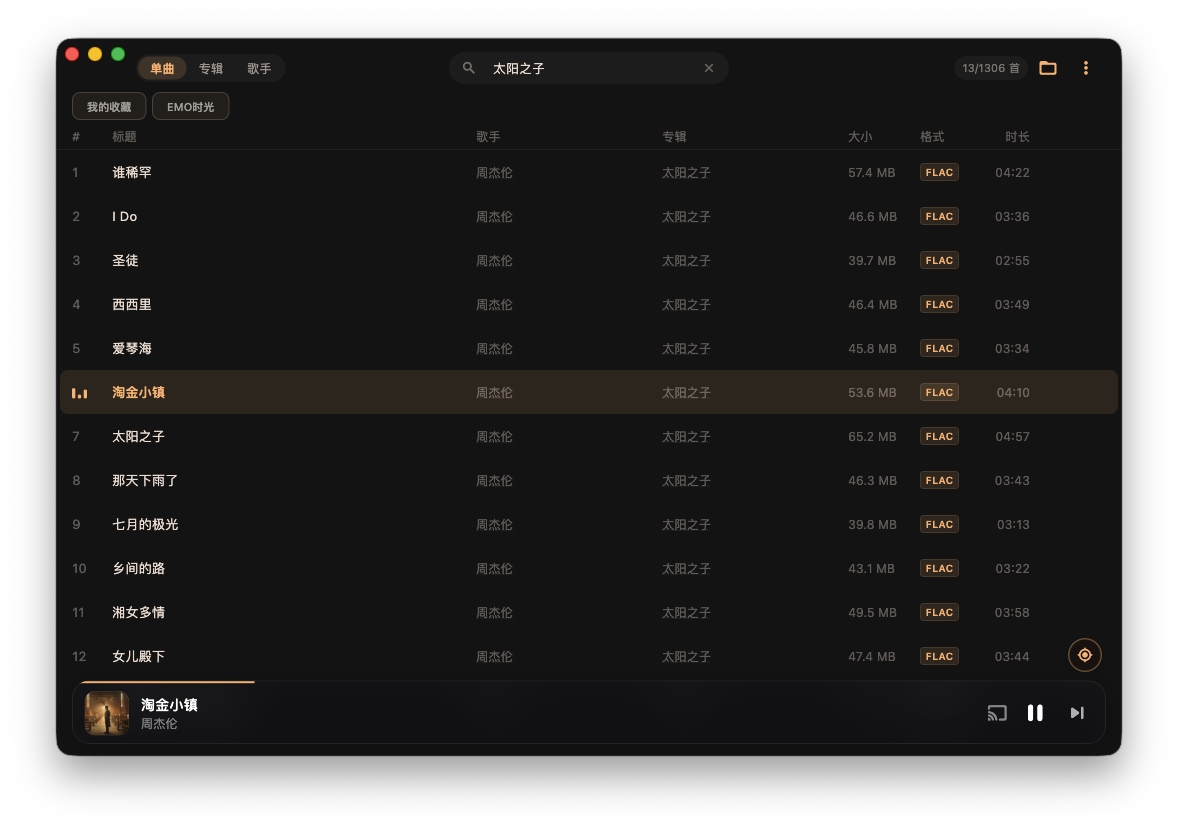
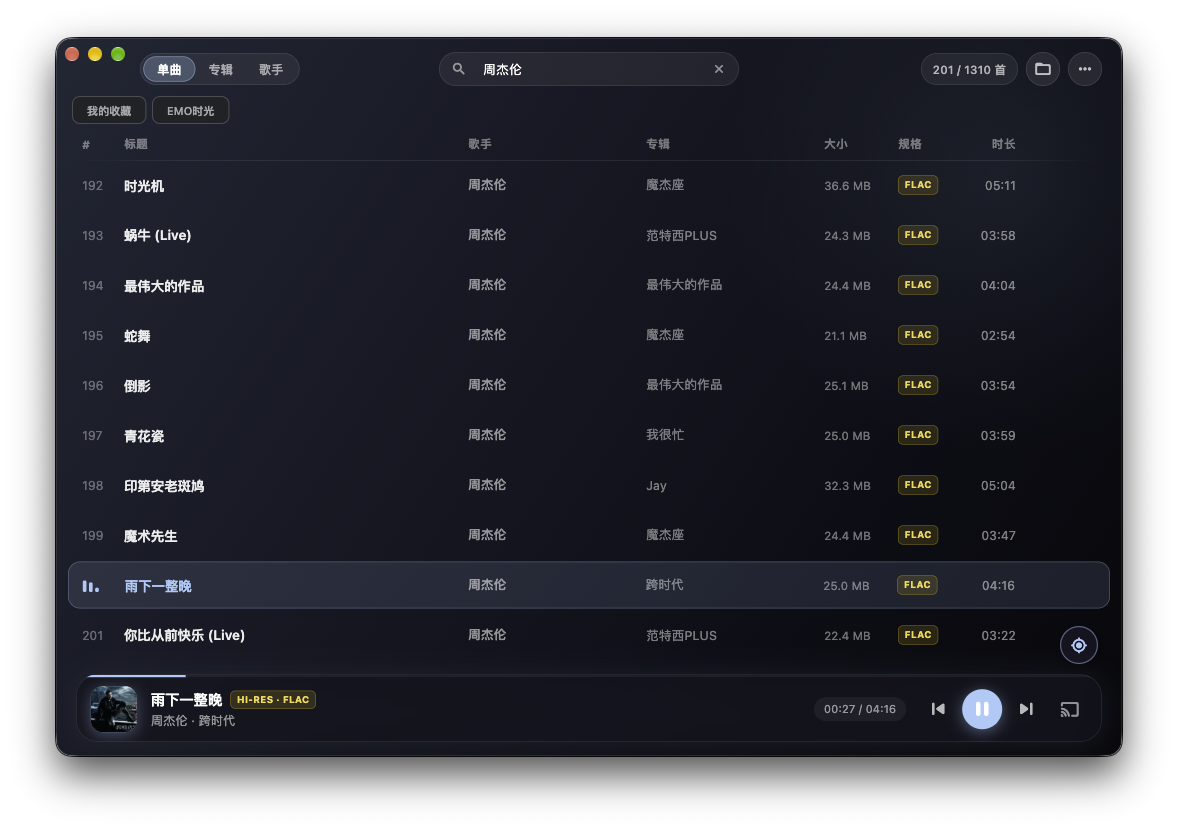
dev: UI调整优化

diff --git a/lib/pages/player_page.dart b/lib/pages/player_page.dart
@@ -299,14 +299,19 @@ class _PlayerPageState extends ConsumerState<PlayerPage> {
                             ),
                           ),
                           const SizedBox(height: 18),
-                          // 声学频谱进度与主控舱（常驻显示，不自动隐藏）
-                          _buildAcousticControlDeck(
-                            context: context,
-                            ref: ref,
-                            isPlaying: isPlaying,
-                            playMode: playMode,
-                            volume: volume,
-                            theme: theme,
+                          // 声学频谱进度与主控舱（常驻显示，鼠标静止隐藏顶部按钮时透明度同步降为 0.6）
+                          AnimatedOpacity(
+                            duration: const Duration(milliseconds: 300),
+                            curve: Curves.easeOutCubic,
+                            opacity: _controlsVisible ? 1.0 : 0.3,
+                            child: _buildAcousticControlDeck(
+                              context: context,
+                              ref: ref,
+                              isPlaying: isPlaying,
+                              playMode: playMode,
+                              volume: volume,
+                              theme: theme,
+                            ),
                           ),
                         ],
                       ),
@@ -479,15 +484,20 @@ class _PlayerPageState extends ConsumerState<PlayerPage> {
             ),
           ),
           const SizedBox(height: 10),
-          // 底部声学控制舱（常驻显示，不自动隐藏）
-          _buildAcousticControlDeck(
-            context: context,
-            ref: ref,
-            isPlaying: isPlaying,
-            playMode: playMode,
-            volume: volume,
-            theme: theme,
-            isCompact: true,
+          // 底部声学控制舱（常驻显示，鼠标静止隐藏顶部按钮时透明度同步降为 0.6）
+          AnimatedOpacity(
+            duration: const Duration(milliseconds: 300),
+            curve: Curves.easeOutCubic,
+            opacity: _controlsVisible ? 1.0 : 0.3,
+            child: _buildAcousticControlDeck(
+              context: context,
+              ref: ref,
+              isPlaying: isPlaying,
+              playMode: playMode,
+              volume: volume,
+              theme: theme,
+              isCompact: true,
+            ),
           ),
         ],
       ),
@@ -843,76 +853,95 @@ class _PlayerPageState extends ConsumerState<PlayerPage> {
           ),
           const SizedBox(height: 6),
 
-          // 3. 歌手名与快捷搜索歌词入口（搜索歌词按钮随无操作自动淡出隐藏）
-          Wrap(
-            spacing: 12,
-            runSpacing: 6,
-            crossAxisAlignment: WrapCrossAlignment.center,
-            alignment: switch (crossAlign) {
-              CrossAxisAlignment.center => WrapAlignment.center,
-              CrossAxisAlignment.end => WrapAlignment.end,
-              _ => WrapAlignment.start,
-            },
-            children: [
-              Text(
-                currentSong?.artist ?? '未知艺术家',
-                style: TextStyle(
-                  fontSize: isCompact ? 13.5 : 15.5,
-                  color: Colors.white.withValues(alpha: 0.65),
-                  fontWeight: FontWeight.w500,
+          // 3. 歌手名与快捷搜索歌词入口（搜索歌词按钮随无操作自动淡出并释放水平占位）
+          ConstrainedBox(
+            constraints: const BoxConstraints(minHeight: 24),
+            child: Wrap(
+              runSpacing: 6,
+              crossAxisAlignment: WrapCrossAlignment.center,
+              alignment: switch (crossAlign) {
+                CrossAxisAlignment.center => WrapAlignment.center,
+                CrossAxisAlignment.end => WrapAlignment.end,
+                _ => WrapAlignment.start,
+              },
+              children: [
+                Text(
+                  currentSong?.artist ?? '未知艺术家',
+                  textAlign: textAlign,
+                  style: TextStyle(
+                    fontSize: isCompact ? 13.5 : 15.5,
+                    color: Colors.white.withValues(alpha: 0.65),
+                    fontWeight: FontWeight.w500,
+                  ),
+                  maxLines: 1,
+                  overflow: TextOverflow.ellipsis,
                 ),
-                maxLines: 1,
-                overflow: TextOverflow.ellipsis,
-              ),
-              if (currentSong != null &&
-                  (currentSong.title as String).isNotEmpty)
-                IgnorePointer(
-                  ignoring: !_controlsVisible,
-                  child: AnimatedOpacity(
-                    duration: const Duration(milliseconds: 280),
-                    opacity: _controlsVisible ? 1.0 : 0.0,
-                    child: InkWell(
-                      onTap: () => _showSearchLyricsOptions(
-                        context,
-                        currentSong.title,
-                      ),
-                      borderRadius: BorderRadius.circular(12),
-                      child: Container(
-                        padding: const EdgeInsets.symmetric(
-                          horizontal: 8,
-                          vertical: 2,
-                        ),
-                        decoration: BoxDecoration(
-                          color: Colors.white.withValues(alpha: 0.06),
-                          borderRadius: BorderRadius.circular(12),
-                          border: Border.all(
-                            color: Colors.white.withValues(alpha: 0.14),
-                          ),
-                        ),
-                        child: Row(
-                          mainAxisSize: MainAxisSize.min,
-                          children: [
-                            Icon(
-                              Icons.search_rounded,
-                              size: 12,
-                              color: Colors.white.withValues(alpha: 0.6),
-                            ),
-                            const SizedBox(width: 4),
-                            Text(
-                              '搜索歌词',
-                              style: TextStyle(
-                                color: Colors.white.withValues(alpha: 0.6),
-                                fontSize: 11,
-                                fontWeight: FontWeight.w500,
+                if (currentSong != null &&
+                    (currentSong.title as String).isNotEmpty)
+                  IgnorePointer(
+                    ignoring: !_controlsVisible,
+                    child: ClipRect(
+                      child: AnimatedAlign(
+                        duration: const Duration(milliseconds: 280),
+                        curve: Curves.easeOutCubic,
+                        alignment: Alignment.centerLeft,
+                        widthFactor: _controlsVisible ? 1.0 : 0.0,
+                        heightFactor: 1.0,
+                        child: AnimatedOpacity(
+                          duration: const Duration(milliseconds: 240),
+                          opacity: _controlsVisible ? 1.0 : 0.0,
+                          child: Padding(
+                            padding: const EdgeInsets.only(left: 12),
+                            child: InkWell(
+                              onTap: () => _showSearchLyricsOptions(
+                                context,
+                                currentSong.title,
+                              ),
+                              borderRadius: BorderRadius.circular(12),
+                              child: Container(
+                                padding: const EdgeInsets.symmetric(
+                                  horizontal: 8,
+                                  vertical: 2,
+                                ),
+                                decoration: BoxDecoration(
+                                  color: Colors.white.withValues(alpha: 0.06),
+                                  borderRadius: BorderRadius.circular(12),
+                                  border: Border.all(
+                                    color: Colors.white.withValues(alpha: 0.14),
+                                  ),
+                                ),
+                                child: Row(
+                                  mainAxisSize: MainAxisSize.min,
+                                  children: [
+                                    Icon(
+                                      Icons.search_rounded,
+                                      size: 12,
+                                      color: Colors.white.withValues(
+                                        alpha: 0.6,
+                                      ),
+                                    ),
+                                    const SizedBox(width: 4),
+                                    Text(
+                                      '搜索歌词',
+                                      style: TextStyle(
+                                        color: Colors.white.withValues(
+                                          alpha: 0.6,
+                                        ),
+                                        fontSize: 11,
+                                        fontWeight: FontWeight.w500,
+                                      ),
+                                    ),
+                                  ],
+                                ),
                               ),
                             ),
-                          ],
+                          ),
                         ),
                       ),
                     ),
                   ),
-                ),
-            ],
+              ],
+            ),
           ),
         ],
       ),
